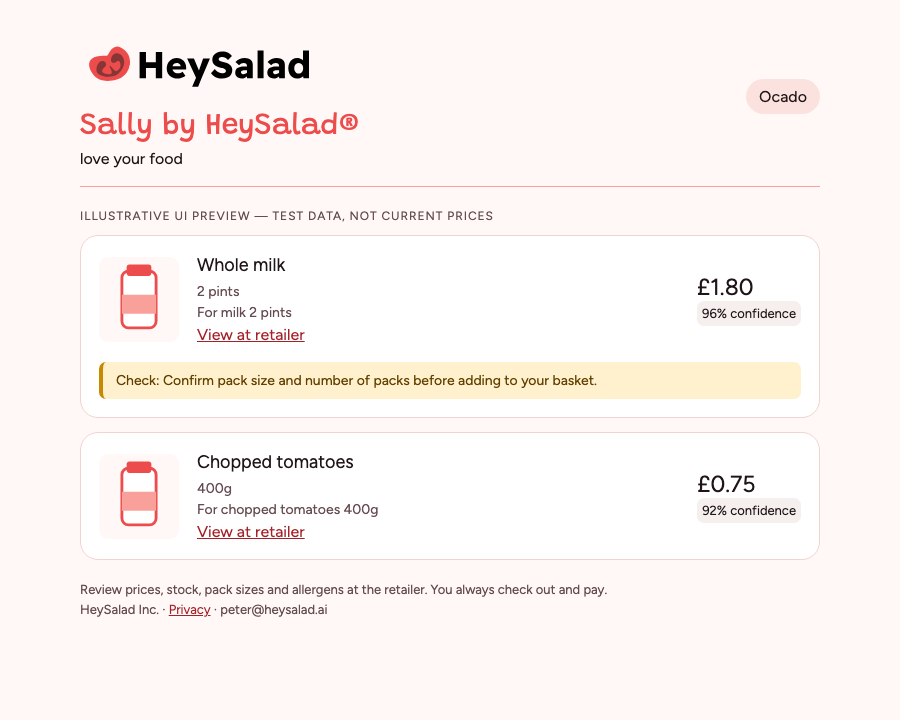
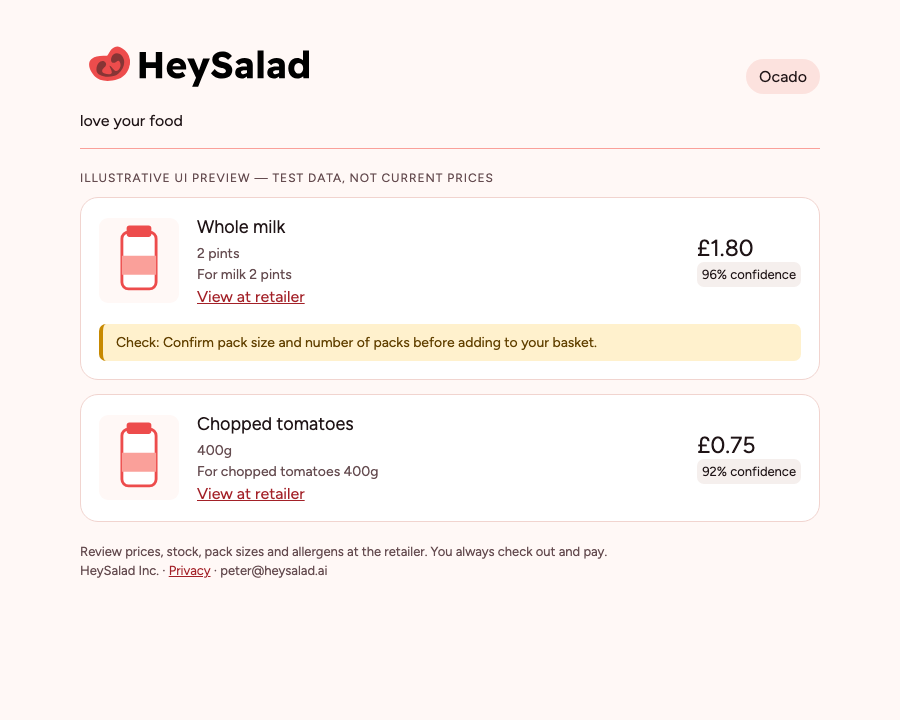
Remove duplicate Sally heading from grocery cards

Changed region(s): [[0.0933, 0.1528, 0.9022, 0.8556], [0.84, 0.0917, 0.9022, 0.1528]]

diff --git a/ui/products.html b/ui/products.html
@@ -19,7 +19,7 @@
 </clipPath>
 </defs>
 </svg>
-</span><h1>Sally by HeySalad®</h1></div><p class="tagline">love your food</p></div><span class="retailer" id="retailer">Your groceries</span></header><div class="label" id="label">A little help with your next shop</div><section id="results" class="cards" aria-live="polite"><p class="status">Hey! 👋 🥗 Welcome to Sally by HeySalad®! What are we cooking or shopping for today?</p></section><p class="footer">Review prices, stock, pack sizes and allergens at the retailer. <strong>You always check out and pay.</strong><br>HeySalad Inc. · <a href="https://heysalad.ai/sally/privacy" target="_blank" rel="noopener noreferrer">Privacy</a> · peter@heysalad.ai</p></main><script>
+</span></div><p class="tagline">love your food</p></div><span class="retailer" id="retailer">Your groceries</span></header><div class="label" id="label">A little help with your next shop</div><section id="results" class="cards" aria-live="polite"><p class="status">Hey! 👋 🥗 Welcome to Sally by HeySalad®! What are we cooking or shopping for today?</p></section><p class="footer">Review prices, stock, pack sizes and allergens at the retailer. <strong>You always check out and pay.</strong><br>HeySalad Inc. · <a href="https://heysalad.ai/sally/privacy" target="_blank" rel="noopener noreferrer">Privacy</a> · peter@heysalad.ai</p></main><script>
 const root=document.querySelector('#results');
 const el=(tag,text,cls)=>{const e=document.createElement(tag);if(text!==undefined)e.textContent=text;if(cls)e.className=cls;return e;};
 const allowedRetailers=['ocado.com','www.ocado.com','waitrose.com','www.waitrose.com','tesco.com','www.tesco.com','asda.com','www.asda.com','groceries.asda.com'];

diff --git a/tests/ui/products.spec.ts b/tests/ui/products.spec.ts
@@ -115,6 +115,9 @@ test("cards render product, price, size, confidence and amber note without overf
   await expect(
     page.getByRole("heading", { name: "Whole milk", exact: true }),
   ).toBeVisible();
+  await expect(page.getByRole("heading", { name: "Sally by HeySalad®", exact: true })).toHaveCount(0);
+  await expect(page.getByRole("img", { name: "HeySalad logo", exact: true })).toBeVisible();
+  await expect(page.getByText("love your food", { exact: true })).toBeVisible();
   await expect(page.getByText("£1.80", { exact: true })).toBeVisible();
   await expect(page.getByText("96% confidence", { exact: true })).toBeVisible();
   await expect(

diff --git a/submission/verification.md b/submission/verification.md
@@ -157,3 +157,14 @@ Nano hosting remains unprovisioned. System Python has no Modal CLI; no new
 compute, paid service or inference endpoint was deployed. Account-wide ChatGPT
 CSP enforcement, verified HeySalad Inc. publisher identity, general signup/reviewer
 access and production Sally API release remain separate launch gates.
+
+
+## Product-card heading cleanup — prepared 15 October 2026
+
+Removed the duplicate visible Sally by HeySalad® heading requested in Peter's
+13:49 screenshot. Official wordmark, tagline and document title remain. Five
+UI tests pass, including absence of the heading, visible logo/tagline and mobile
+overflow checks. Screenshots products-desktop.png and products-mobile.png are
+local illustrative fixtures. `npm run check` passed with 73 unit tests before
+the separate list-metering changes. Public deployment approval is pending;
+this entry does not claim the existing ChatGPT card has refreshed.
